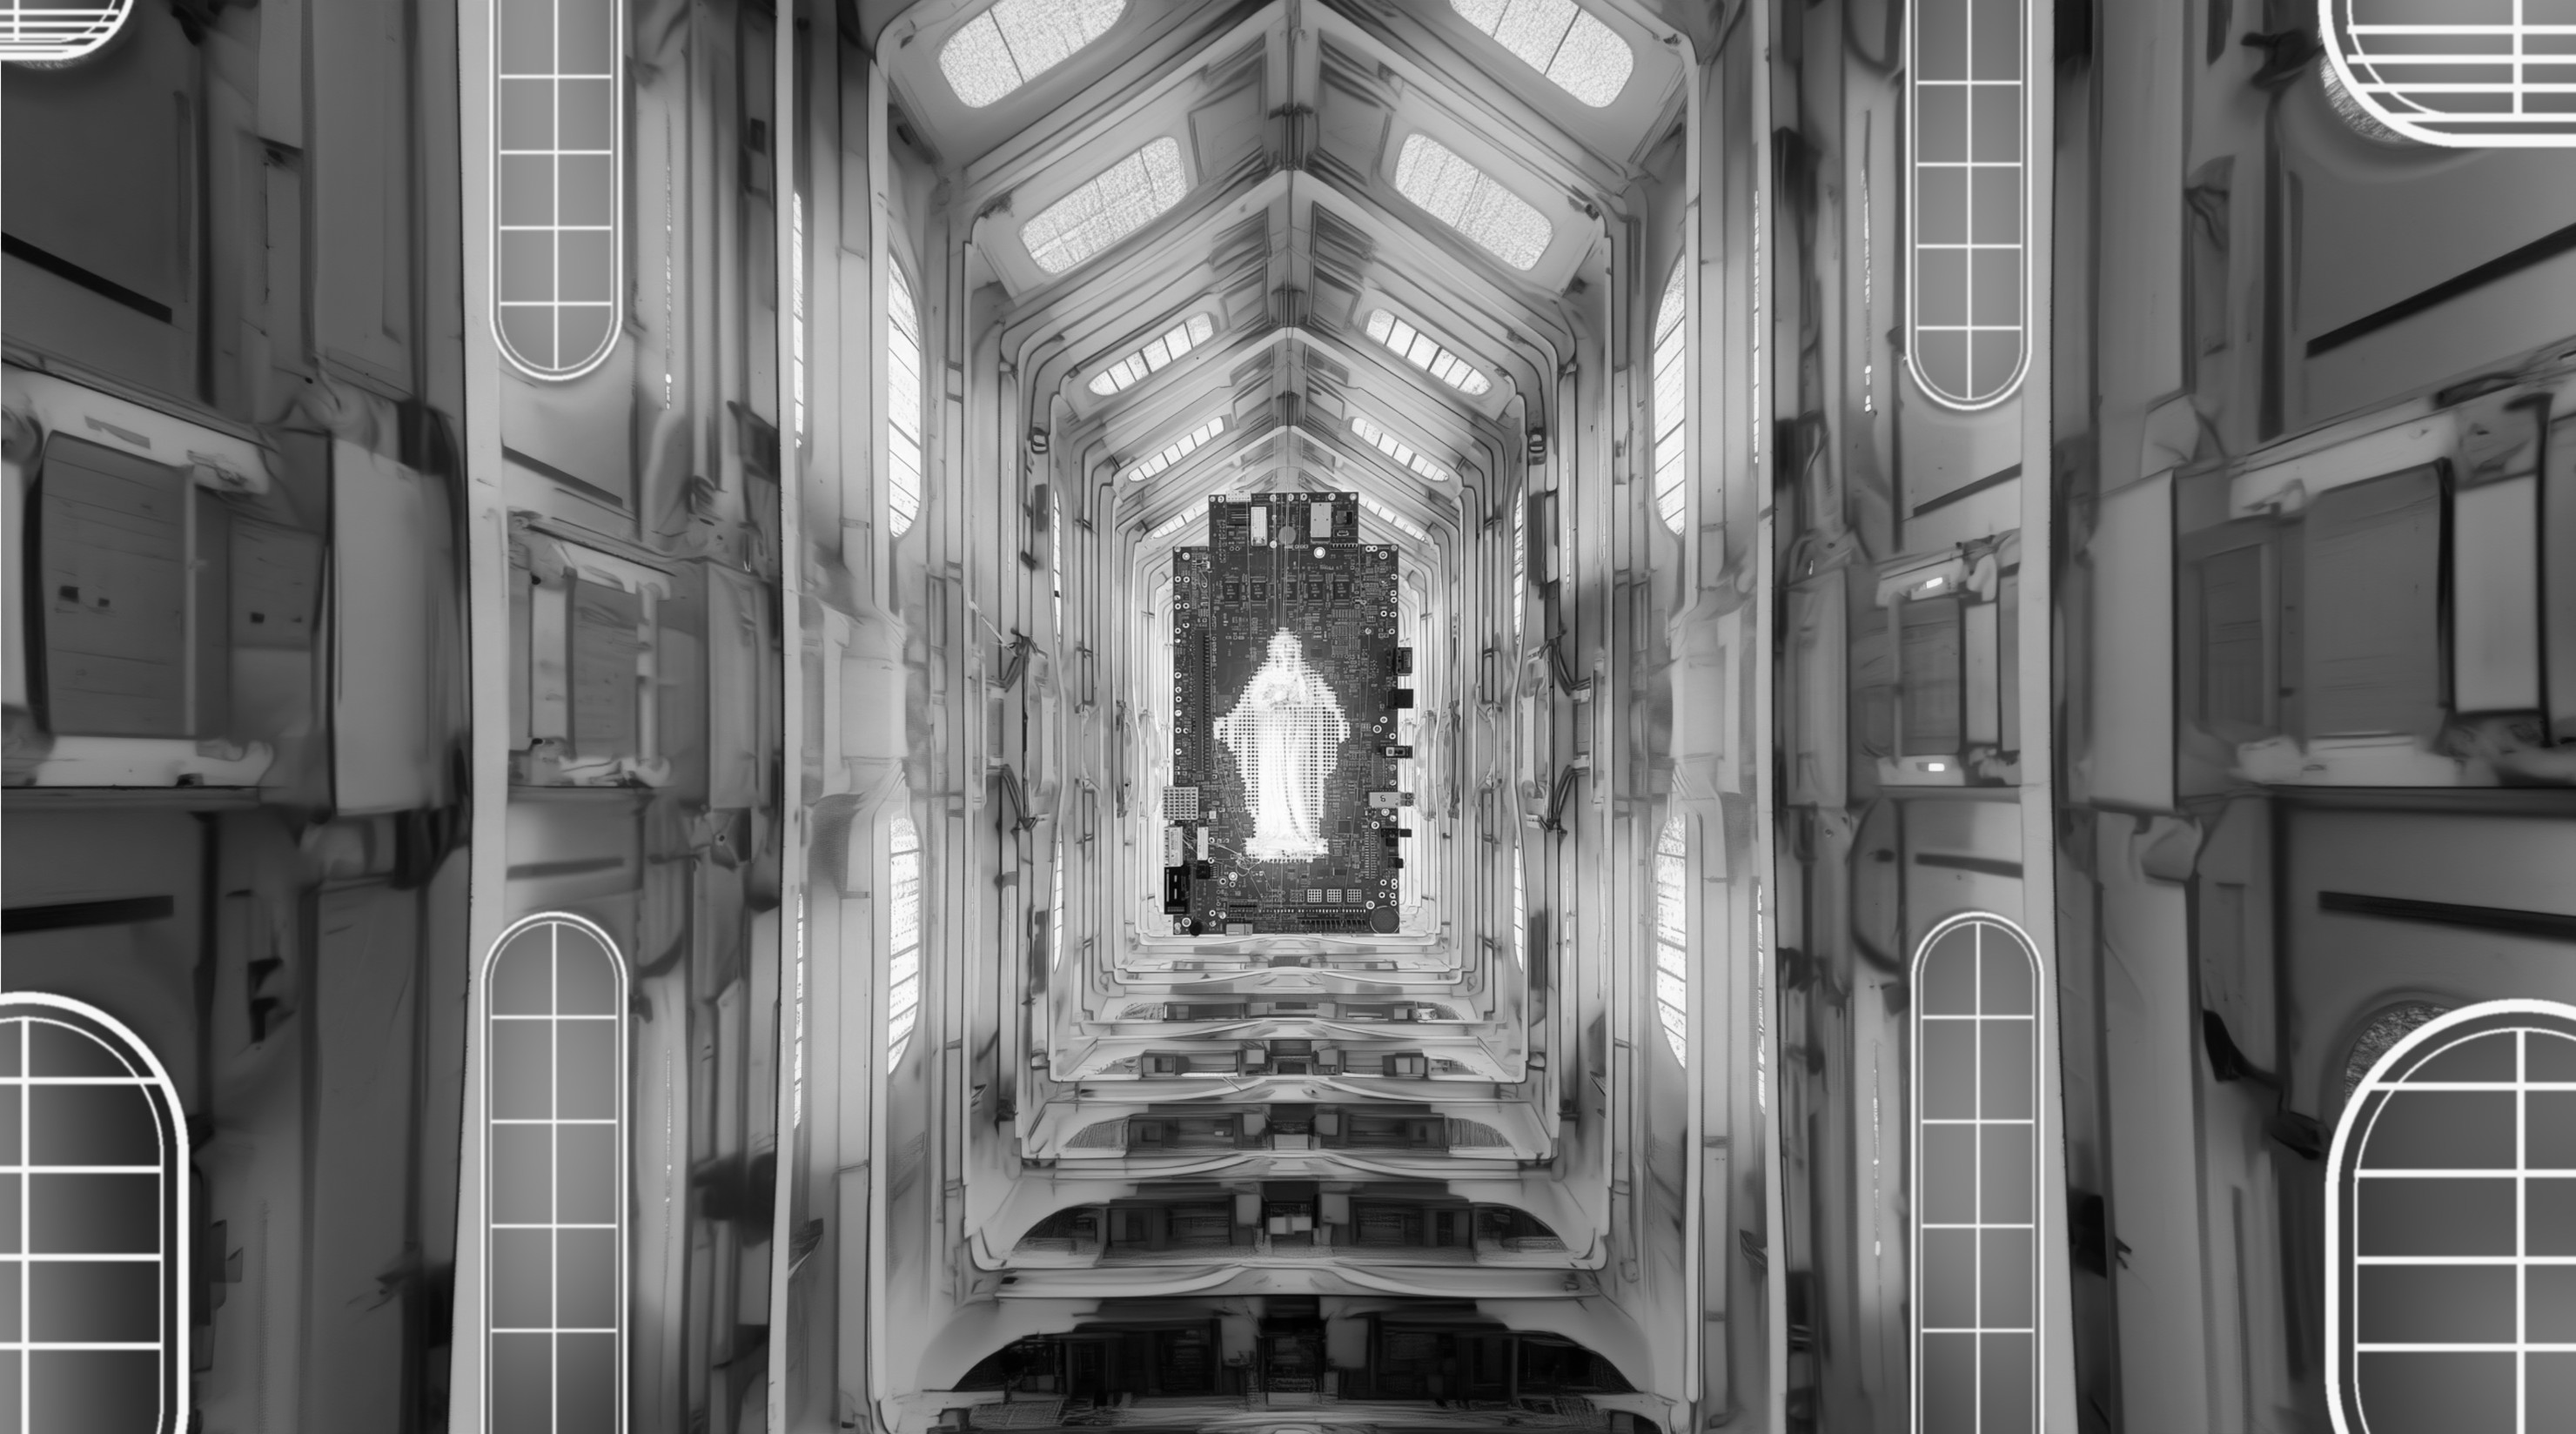
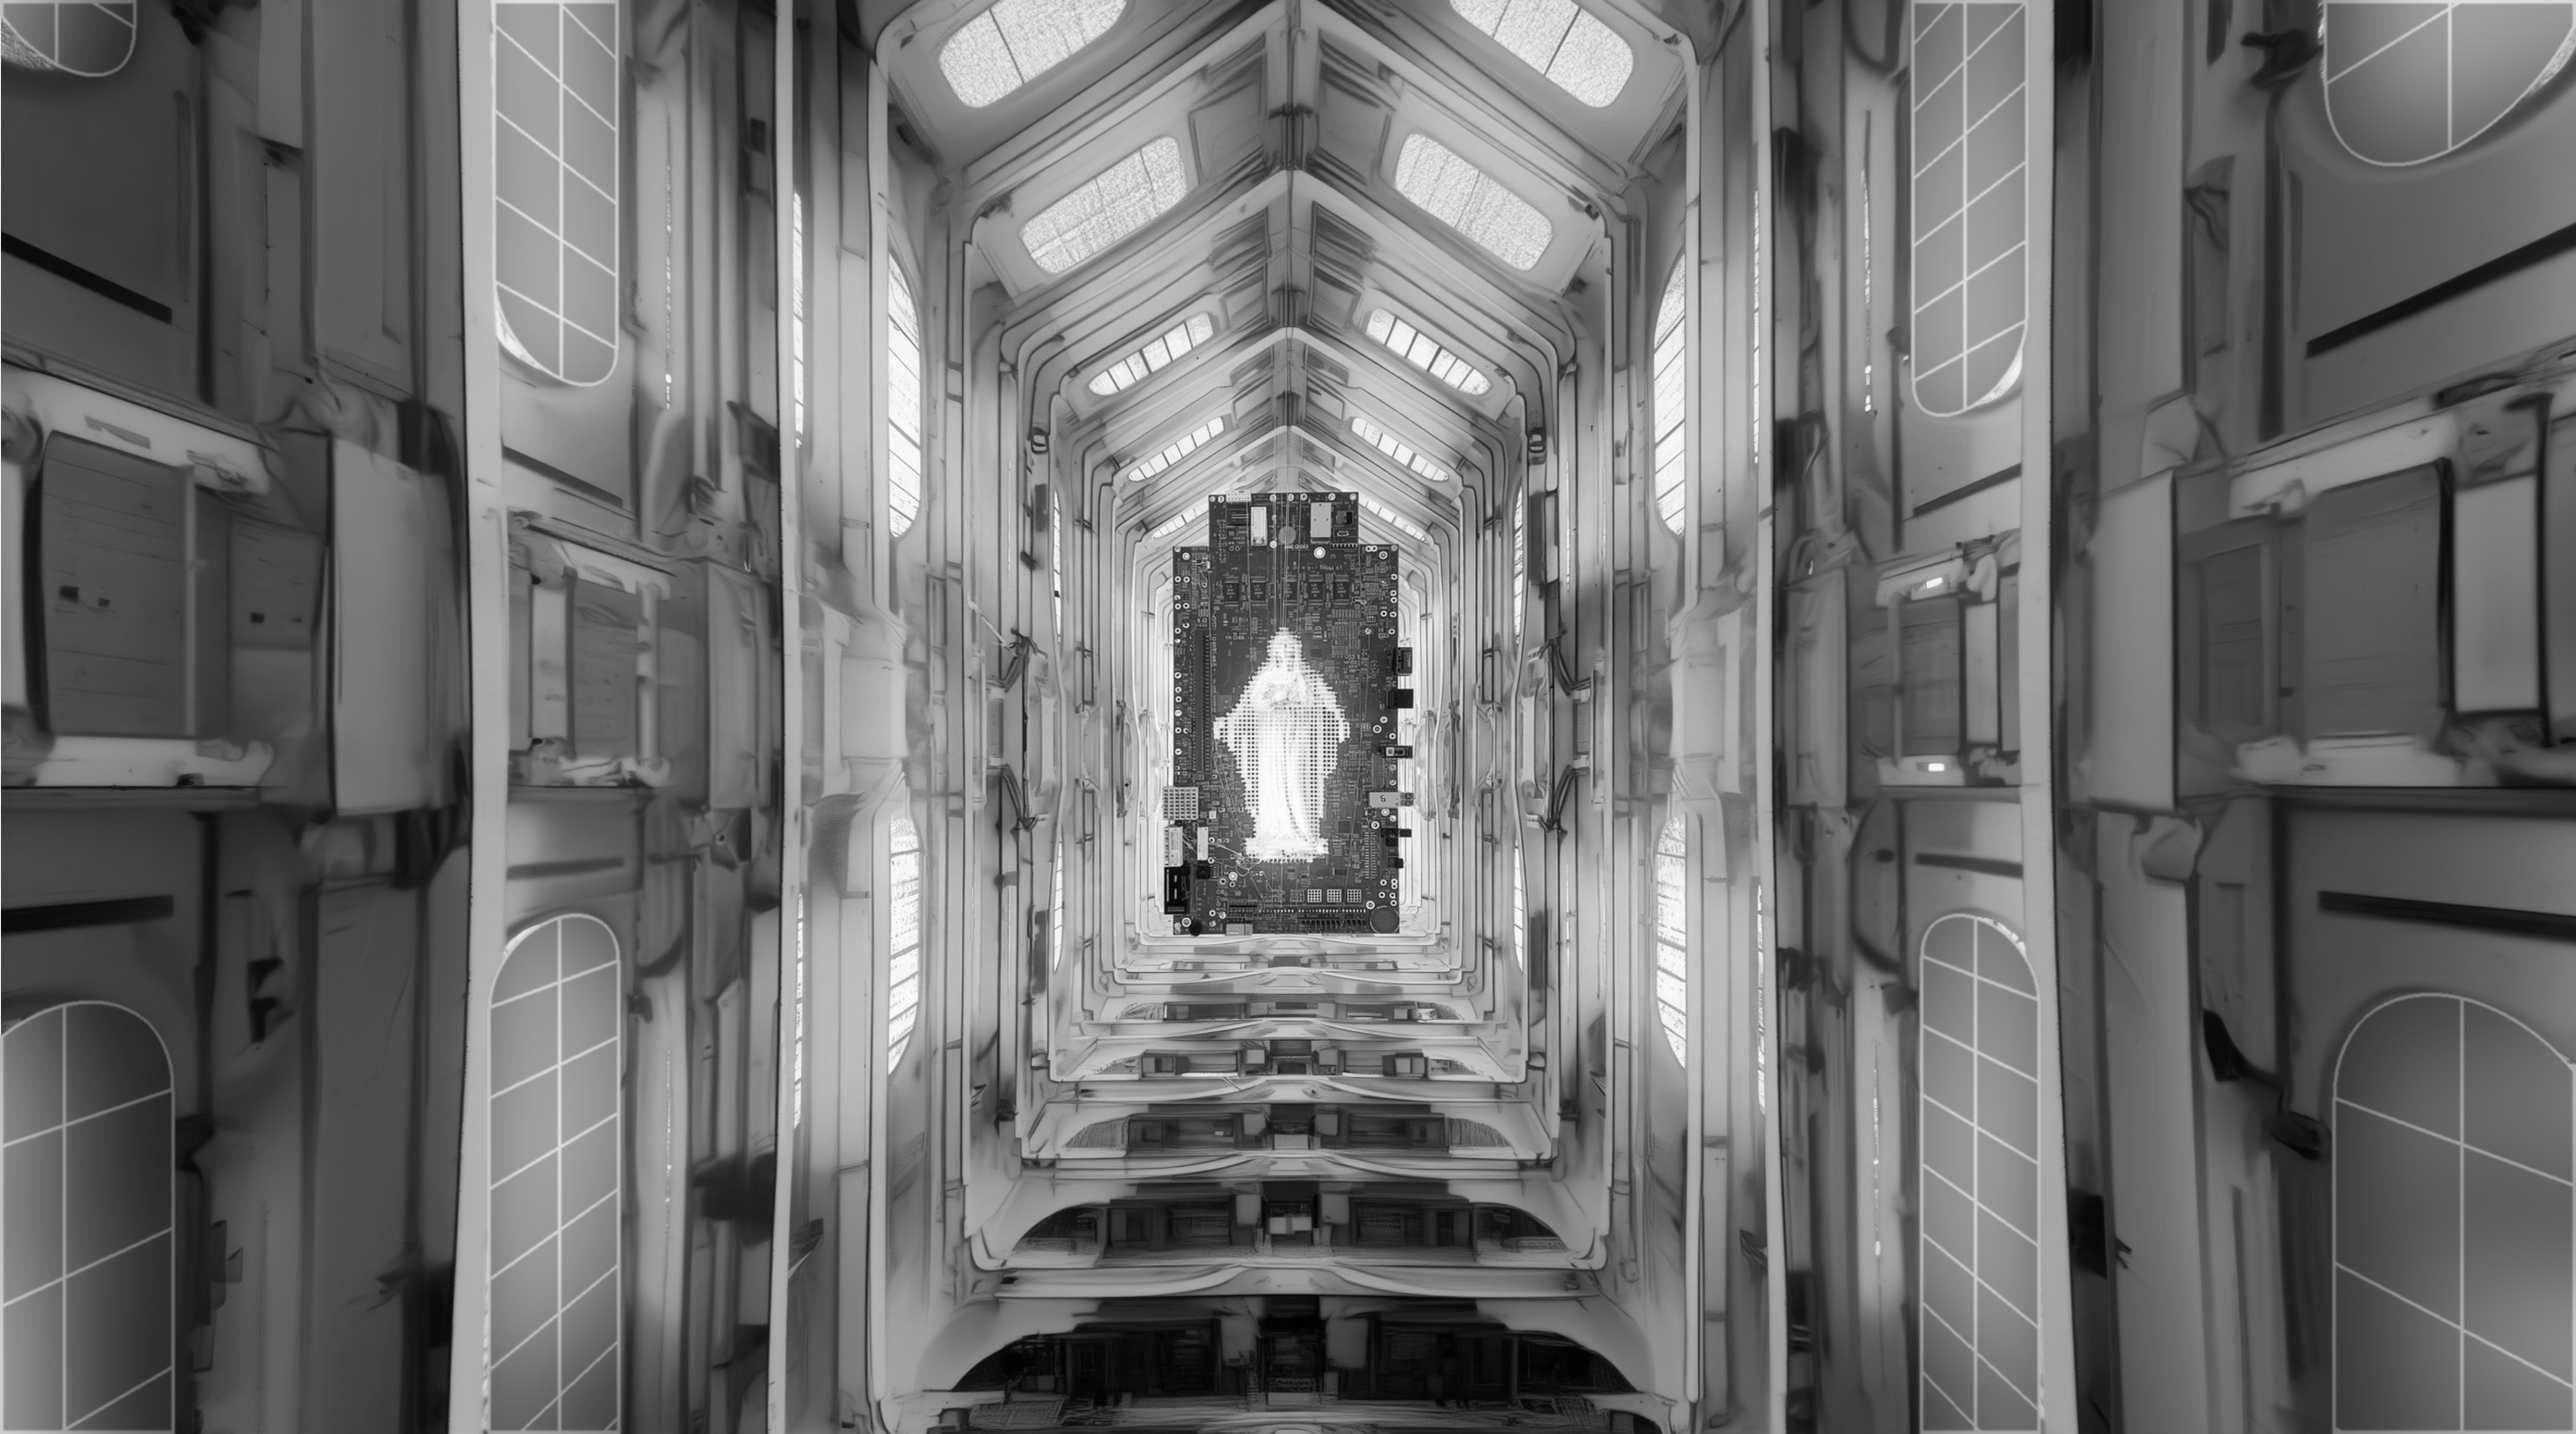
Redraw the side windows in the picture's perspective, faster text opening, earlier rays
Claude-Session: https://claude.ai/code/session_017Gwt8bmZ5KpquVSZCh3wQq

diff --git a/app/globals.css b/app/globals.css
@@ -582,7 +582,7 @@ body {
   width: 100%;
   height: 100%;
   filter: blur(3px);
-  animation: cathedral-in 3s ease 2.6s both;
+  animation: cathedral-in 3s ease 1.6s both;
 }
 .glass-stage .rays-canvas {
   animation: none;
@@ -661,15 +661,15 @@ body {
   opacity: 0;
 }
 :root:has(.cathedral.opening.go:not(.glass-stage)) .column {
-  animation: column-in calc(var(--o, 1) * 3.2s) cubic-bezier(0.22, 0.61, 0.2, 1) calc(var(--o, 1) * 0.7s) backwards;
+  animation: column-in calc(var(--o, 1) * 1.6s) cubic-bezier(0.22, 0.61, 0.2, 1) calc(var(--o, 1) * 0.35s) backwards;
 }
 :root:has(.cathedral.opening.go:not(.glass-stage)) .column p > span {
-  animation: word-in calc(var(--o, 1) * 1.9s) cubic-bezier(0.22, 0.61, 0.2, 1) backwards;
-  animation-delay: calc(var(--o, 1) * (0.8s + var(--i, 200) * 30ms + var(--j, 0) * 260ms));
+  animation: word-in calc(var(--o, 1) * 0.95s) cubic-bezier(0.22, 0.61, 0.2, 1) backwards;
+  animation-delay: calc(var(--o, 1) * (0.4s + var(--i, 200) * 15ms + var(--j, 0) * 130ms));
 }
 :root:has(.cathedral.opening.go:not(.glass-stage)) .column p > span > .w {
   display: inline-block;
-  animation: word-fall calc(var(--o, 1) * 1.9s) cubic-bezier(0.22, 0.61, 0.2, 1) backwards;
+  animation: word-fall calc(var(--o, 1) * 0.95s) cubic-bezier(0.22, 0.61, 0.2, 1) backwards;
   animation-delay: inherit;
 }
 @keyframes word-fall {

diff --git a/app/glass/Rays.tsx b/app/glass/Rays.tsx
@@ -61,7 +61,7 @@ export default function Rays({ outline, look, ink, top, size, dark, intro }: { o
       if (since < 0) return;
       const ease = (x: number) => (x <= 0 ? 0 : x >= 1 ? 1 : 1 - Math.pow(1 - x, 3));
       const shadeIn = ease((since - 0.2) / 1.8);
-      const sweep = (since - 3.1) / 3.2; // the shafts are the last thing to arrive
+      const sweep = (since - 3.1 + 1 / (o || 1)) / 3.2; // the shafts are the last thing to arrive, one second sooner than first set
       const tall = size * H;
       const open = outline.ratio * tall; // height of the opening
       const cx = W / 2 + outline.dx * tall;

diff --git a/app/cathedral/CathedralPage.tsx b/app/cathedral/CathedralPage.tsx
@@ -217,7 +217,7 @@ function Backdrop({ look, replay }: { look: Look; replay: number }) {
   // dust is told to measure where the words ended up.
   useEffect(() => {
     if (!go) return;
-    const done = setTimeout(() => window.dispatchEvent(new Event("resize")), look.open * 4200);
+    const done = setTimeout(() => window.dispatchEvent(new Event("resize")), look.open * 2400);
     return () => clearTimeout(done);
     // eslint-disable-next-line react-hooks/exhaustive-deps
   }, [go]);
